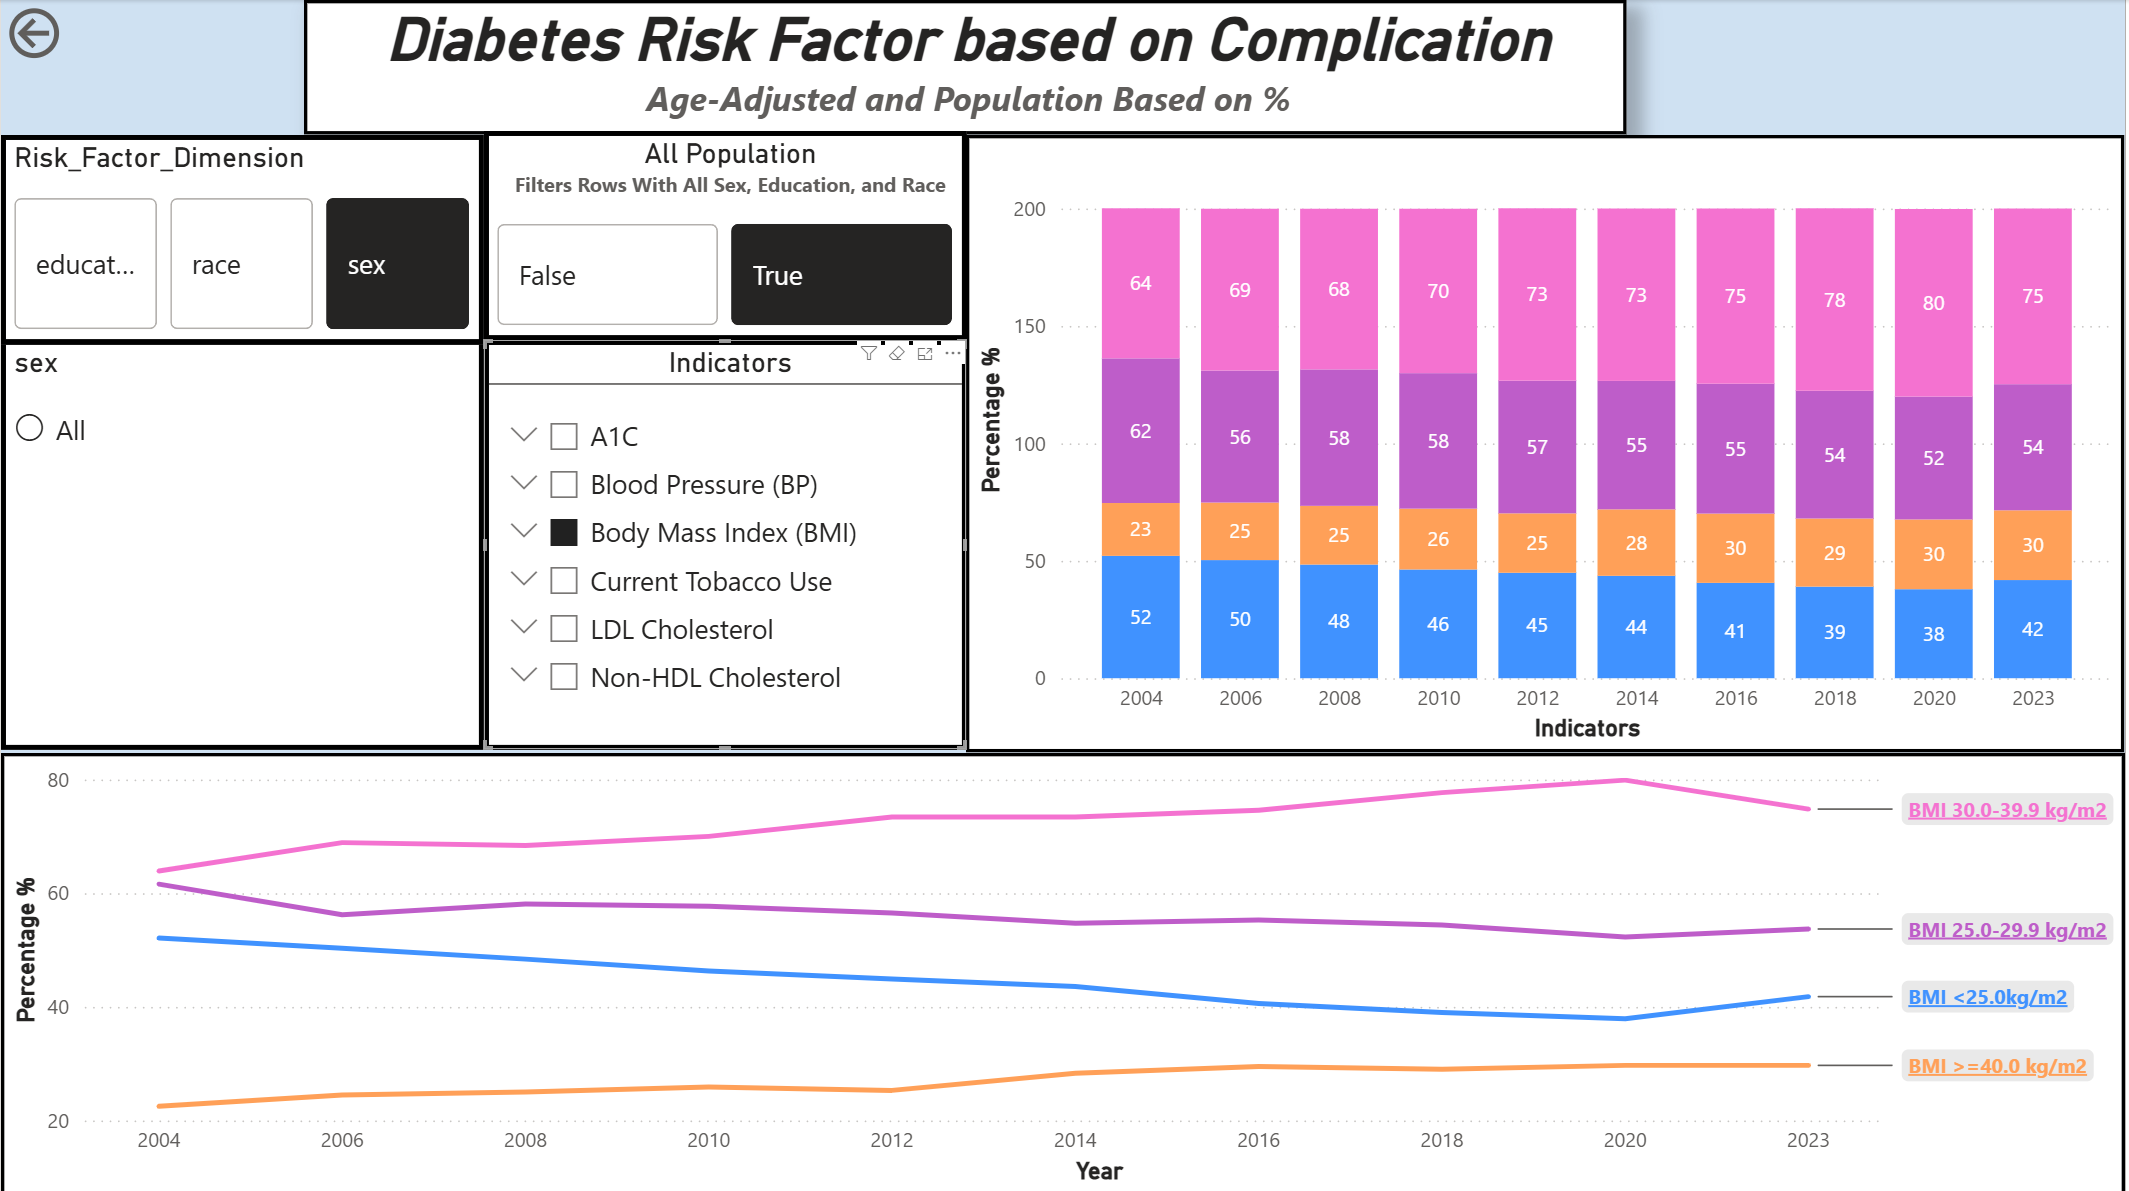
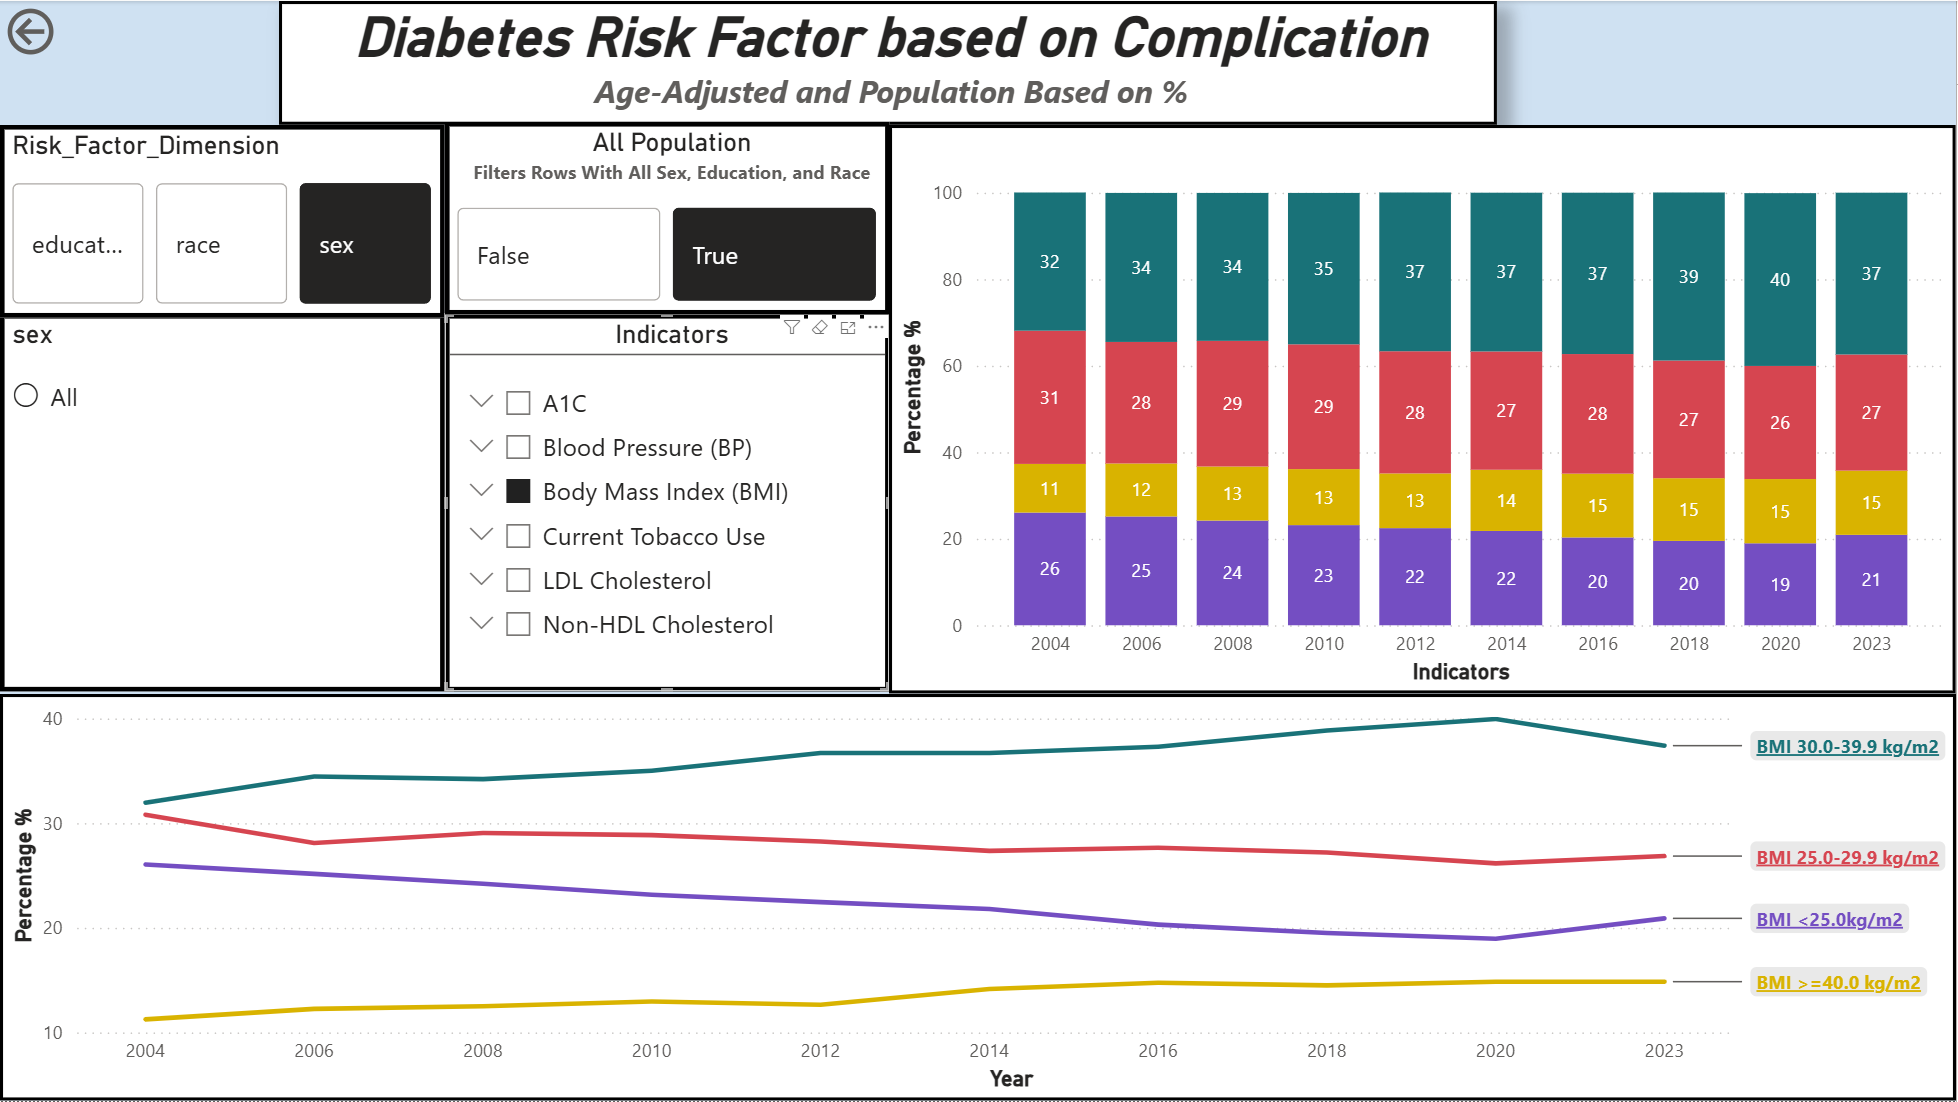
Added Analysis about blood pressure and Body Mass index.

diff --git a/analysis/diabetes_indicator_analysis/diabetes_indicator_report.md b/analysis/diabetes_indicator_analysis/diabetes_indicator_report.md
@@ -16,7 +16,7 @@
 ---
 What group of adults 18+ with diabetes for each risk factors (Blood Sugar(A1), Body Mass Index (BMI), Blood Pressure(BP), LDL Cholestrol, Non-HDL Cholestrol, and Tabacco Use)?
 
-#### **Blood Sugar (A1C)**
+#### Blood Sugar (A1C)
 ![alt text](img/Risk_Factor/Blood_Sugar_All.png)
 ***
 - Before we dive into the Analysis, lets first answer what A1C is? A1C is a blood test that provides information about your averaage levels of blood glucose, also called bloos sugar, over the past 3 months. It can be used to diagnose type 2 diabetes and prediabetics. **A Normal A1C level is below 5.7**.
@@ -29,13 +29,54 @@ What group of adults 18+ with diabetes for each risk factors (Blood Sugar(A1), B
 
 
 1. **2004(I am going to refer Adults 18+ with diabetes as AWD)**: 
-    1. Notice how AWD with "A1C <6.0" were significantly higher in the early 2000s compare to 2023. Why is that? Lets answer it:
-    3. I am leaning towards **Diabetic Medications** being the reason for AWD with A1C < 6.0. 
-    4. **This is actually good news**, diabetes was treated seriously in the past, AWD with A1C > 9.0, A1C 8.0-9.0, and A1C 7.0-7.9 were at a all time low.  
+    1. Notice how AWD with "A1C <6.0" were significantly higher in the early 2000s compare to 2023:
+    2. This trend shows that people with Diabetes were getting treated for their type 2 and type diabetes, by keeping their blood sugar level in check. This is a good thing
 2. **2006 - 2020**
     1. You will notice how AWD with "A1C <6.0 is gradaully doing down, while "A1C > 9.0" and "A1C 7.0-7.9" still remains the same. But **AWD with *"A1C 6.0-6.9" increase drastically after 2010**. This is a pretty alarming sign to whats to come. 
 3. **2020-2023**
     1. There is a huge upward spike for AWD with "A1C > 9.0" and a huge downward spike for AWD "A1C < 6.0". Why is that?
     2. Diabetes is caused by lack of exercise, bad diet, or stress. What was happening in this time period?
-    3. At the end of 2020 the Covid pandemic started, which resulted mass lockdownn. This could result in people not going outside to exercise or goto gyms which encourges people to not moving, having bad diets can amplify having high blood sugar, and it is was also stressful times. 
+    3. At the end of 2020 the Covid pandemic started, which resulted mass lockdownn. This could result in people not going outside to exercise or goto gyms which encourges people to not to move alot, having bad diets can amplify having high blood sugar, and it is was also stressful times. 
+- **Keynote: To summarize. Diabetes was being treated properly in 2004 keeping diabetic adults blood sugar level low, but in 2023 blood sugar level is at a all time high**
+***
+
+#### Body Mass Index(BMI)
+***
+![alt text](img/Risk_Factor/BMI_All.png)
+
+- What is BMI? It is a measure to calculate the measure of weight relative to height
+- Why does BMI matter? If you have a BMI > 30 you are considered obese, having fat can cause you to have insulin resistence, due to you pancreas being wearing out by keeping blood sugar levels in range. 
+|Status|BMI|
+|------|---|
+|Underweight| < 18.5|
+|Optimal| 18.5 - 24.9|
+|Overweight| 25 - 29.9|
+|Class 1 Obesity| 30 - 34.9|
+|Class 2 Obesity| 35 to 39.9|
+|Class 3 Obesity | 40 >|
+
+1. **2004 - 2023**
+    1. As we can see from the the trend. **Obesity and overweight were both high in 2004 and 2023 respectively, But obesity still increasing from 2004 to 2023**. 
+    2. American is know for its obesity, due to americans reliance on Ultra-processed food packed with added sugars, sodium, calories, and unhealthy fats. 
+
+***
+
+#### Blood Pressure(BP)
+***
+![alt text](img/Risk_Factor/BP_All.png)
+
+- What is it? Blood Pressure is the force exerted by circulating blood agains the walls of the arteries
+- How does it correlates with diabetes? High Blood Sugar > Wears Down Artries(where blood travels) -> making it harder for flood to flow. Think of it as pinching a water hose
+- What can happen? High blood pressure can lead to risks of a Stroke and Heart Attack
+
+|Levels|SBP|
+|------|---|
+|Normal| < 120 mm|
+|Elevated| 120-129 mm|
+|Stage 1 High BP| 130 - 139|
+|Stage 2 High BP| 140 >|
+|Severe High BP| 180 >|
+|High BP Emergency| 180 >|
+
+1. From the consistent trend from 2004-2023 we can see that, 30-39% of AWD have normal Blood Pressure, But about 40-50% of AWD have Stage 1 High Blood Pressure.
 ***
